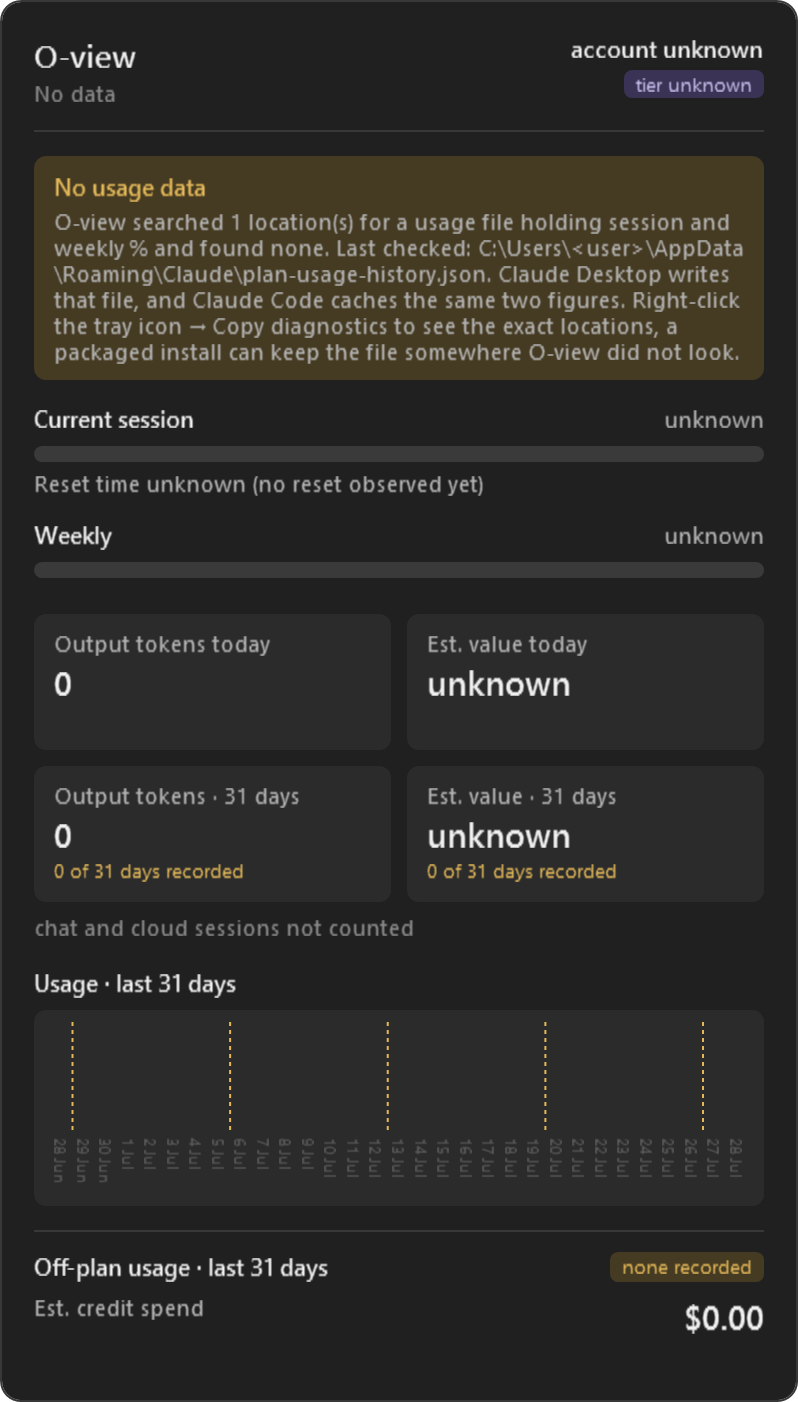
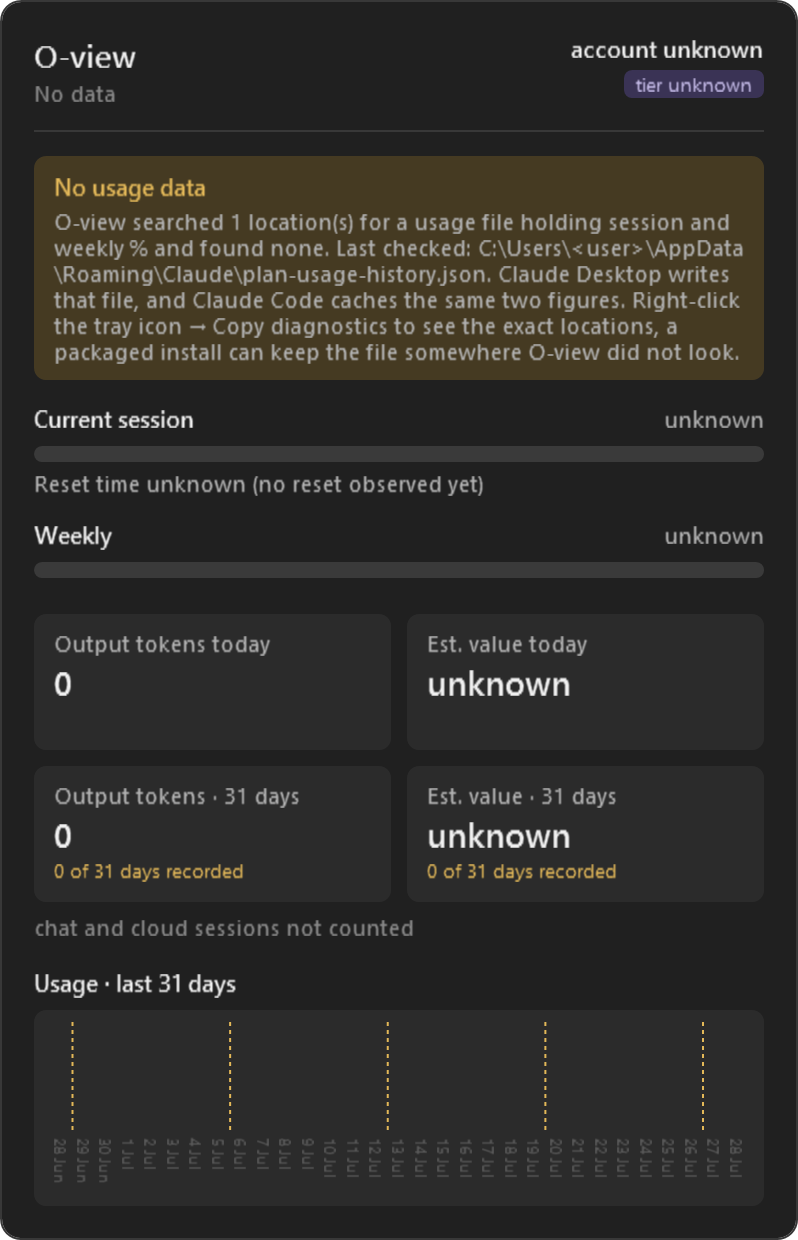
Bring the public docs up to v1.2.1 (OVIAA-252)
Add the Weekly · Fable panel to the README gallery and the overview, retake the
no-data screenshot from the current render, describe the Windows motion and the
Linux head's lack of it, state the model limit bar and the v1.2.1 checks in
platform-status, and correct cli.md on which flags run beside a live instance.

diff --git a/docs/overview.md b/docs/overview.md
@@ -1,6 +1,6 @@
 # O-view at a glance
 
-What the app looks like, surface by surface, on both platforms and in both themes. Every image on this page is rendered by the app itself from its shared sample states, the same renders the test suite compares pixel by pixel on every change, so the pictures are the shipped panel rather than a mock-up. The sample data is fictional: a plan at 25% of its session window, 3% of its weekly one, and a month of transcripts.
+What the app looks like, surface by surface, on both platforms and in both themes. Every image on this page is rendered by the app itself from its shared sample states, so the pictures are the shipped surfaces rather than a mock-up. The panel images are the renders the test suite compares pixel by pixel on every change. The sample data is fictional: a plan at 25% of its session window, 3% of its weekly one, and a month of transcripts.
 
 Four surfaces cannot be rendered offscreen and are described in words at the end: the icon sitting in a real taskbar, the flyout docked against it, a balloon notification, and the installer.
 
@@ -13,7 +13,7 @@ A ring gauge filled in proportion to the 5-hour session window, with the brand "
 | ![](images/icon-00-dark.png) | ![](images/icon-47-dark.png) | ![](images/icon-72-dark.png) | ![](images/icon-91-dark.png) | ![](images/icon-estimate-dark.png) | ![](images/icon-none-dark.png) |
 | ![](images/icon-00-light.png) | ![](images/icon-47-light.png) | ![](images/icon-72-light.png) | ![](images/icon-91-light.png) | ![](images/icon-estimate-light.png) | ![](images/icon-none-light.png) |
 
-The top row is drawn for a dark taskbar, the bottom row for a light one, where the shades are darker so they still read. The exact percentages live in the tooltip: `5h: 47% · resets 16:32 · 7d: 61%`.
+The top row is drawn for a dark taskbar, the bottom row for a light one, where the shades are darker so they still read. The exact percentages live in the tooltip: `5h: 47% · resets 16:32 · 7d: 61%`. The estimate-only and no-data icons are drawn identically, as the grey ring; the tooltip tells them apart (`local estimate` or `no usage data`).
 
 ## The detail panel
 
@@ -30,6 +30,18 @@ The Linux panel is built from the same sections and the same wording.
 | Linux, dark | Linux, light |
 |---|---|
 | ![](images/panel-typical-linux-dark.png) | ![](images/panel-typical-linux-light.png) |
+
+### An account with a model limit
+
+An account with a weekly limit on one model, such as Fable on Max, gets that limit as its own bar under Weekly, named for the model, with its own percentage and reset time in the same colours as the other bars. These renders use a sample account with a Fable limit at 58%, on both platforms. An account with no such limit sees no bar and no gap where one would be.
+
+| Windows, dark | Windows, light |
+|---|---|
+| ![](images/panel-model-limit-windows-dark.png) | ![](images/panel-model-limit-windows-light.png) |
+
+| Linux, dark | Linux, light |
+|---|---|
+| ![](images/panel-model-limit-linux-dark.png) | ![](images/panel-model-limit-linux-light.png) |
 
 ### Tiles that flip
 
@@ -77,12 +89,25 @@ O-view asks its questions on its own window rather than a system box: the same m
 |---|---|
 | ![](images/dialog-update-dark.png) | ![](images/dialog-weekly-reset-light.png) |
 
+## Motion
+
+Still images cannot show it, so it is described here. On Windows the panel and the menu move; on Linux nothing does.
+
+- **The panel and the menu slide.** They slide out of the taskbar edge they are docked to as one piece, in 460 ms, and back in 300 ms. A click while one is moving turns it round from where it had got to.
+- **Folds.** The Bars / Breakdown switch's highlight slides between its two labels, and the breakdown table folds open in 400 ms with its rows fading in one after another, closing in 280 ms. The menu's threshold list folds open and closed the same way, in 340 ms and 240 ms.
+- **Choosing a threshold shows it first.** The pill updates at once, the chosen dot grows in, and the list folds away about 300 ms later.
+- **Ticks and highlights.** A tick draws itself on and fades off, and the hover and focus fill on menu rows and option rows fades in and out.
+- **Stat tiles.** The total lifts out, the breakdown rises in behind it, the bar draws from left to right and the legend follows one entry at a time. The tile never changes size.
+- **Animations off.** Everything above follows Windows' setting for animation effects, read each time a transition starts. With it off, the panel and the menu appear and disappear at once, and folds and flips happen in one step.
+
+Once the motion has settled the surfaces look as the images above show them. The Linux head has none of this: its panel appears and disappears at once, its tiles and breakdown switch change in one step, and its menu belongs to the desktop. [platform-status.md](platform-status.md) records which of this has been watched on a real desktop.
+
 ## What cannot be rendered
 
 These four need a real desktop and are described rather than shown.
 
 - **The icon in the taskbar.** On Windows 11 a new tray icon lands in the overflow flyout behind the `^` chevron; drag it onto the taskbar to pin it. On Linux it appears wherever the desktop's notification area draws it, and on GNOME only once the AppIndicator extension is installed.
-- **The flyout against the taskbar.** The panel and the menu slide out of the taskbar edge as one piece on Windows, 460 ms in and 300 ms out, on curves fitted to the motion of Windows' own quick-settings flyout, and dock 12 px clear of it in the corner nearest the icon.
+- **The flyout against the taskbar.** The panel and the menu slide out of the taskbar edge as one piece on Windows (see Motion above), on curves fitted to the motion of Windows' own quick-settings flyout, and dock 12 px clear of it in the corner nearest the icon.
 - **A notification.** A balloon tip on Windows and a desktop notification on Linux, drawn by the system with O-view's title and body, once per session window when usage crosses your threshold, and once per onset when work stops drawing from the plan.
 - **The installer.** A per-user Inno Setup wizard with a terracotta panel carrying the mark and wordmark on its welcome and finish pages, an optional start-at-sign-in task, and a Start Menu entry.
 

diff --git a/README.md b/README.md
@@ -7,6 +7,7 @@ A system tray app for Windows 11 and Linux that shows how much of your Claude us
 | | |
 |---|---|
 | ![The detail panel on Windows, dark theme](docs/images/panel-typical-windows-dark.png) | ![The detail panel on Windows, light theme](docs/images/panel-typical-windows-light.png) |
+| ![The detail panel on Windows with a Weekly · Fable bar, dark theme](docs/images/panel-model-limit-windows-dark.png) | ![The detail panel on Linux with a Weekly · Fable bar, dark theme](docs/images/panel-model-limit-linux-dark.png) |
 | ![The tray menu](docs/images/menu-windows-dark.png) | ![A stat tile flipped to its per-model breakdown](docs/images/tiles-breakdown-dark.png) |
 
 Every surface, on both platforms and in both themes: [docs/overview.md](docs/overview.md).
@@ -35,6 +36,18 @@ Both heads follow the desktop's light or dark theme, re-read every time the pane
 - **Off-plan usage.** A section that appears only when there is off-plan usage to show. Without a model limit it is the estimated API-rate value of usage on models that bill as extra usage rather than drawing from the plan, over the chart's window. On an account with a model limit that usage draws from the limit, so the section shows instead what Claude reports as spent past the plan, labelled as reported, with no period because none is stated, and hidden while it is zero (unless extra usage is on and no amount can be read, when it says unknown). The two figures are never added. There is also a banner when the live detector sees substantial work against a flat plan meter or an exhausted window. The banner says whether your account has extra usage switched on, as Claude Code last reported it, rather than asserting a charge.
 - **No usage data.** When the figures are unknown, the panel states what O-view checked and what it found, never something about your machine it has not verified.
 
+### Motion
+
+On Windows the panel and the menu move; on Linux nothing does.
+
+- **Opening and closing.** The panel and the menu slide out of the taskbar edge they are docked to as one piece, in 460 ms, and slide back in 300 ms. A click while one is moving turns it round from where it had got to rather than jumping to an end.
+- **Folds.** The Bars / Breakdown switch's highlight slides, and the breakdown table folds open with its rows fading in one after another. The menu's threshold list folds the same way, and choosing a threshold shows the choice first and folds the list away a moment later.
+- **Ticks and highlights.** A tick in the menu draws itself on and fades off, and the hover and focus fill on rows fades in and out.
+- **Stat tiles.** Clicking a tile crossfades its total into its breakdown, with the bar drawing from left to right and the legend following one entry at a time. The tile never changes size.
+- **Animations off.** All of it follows Windows' setting for animation effects, read each time a transition starts. With it off, the panel and the menu appear and disappear at once, and folds and flips happen in one step.
+
+At rest the panel looks exactly as it would without motion. The Linux head has no motion: its panel appears and disappears at once, its tiles and breakdown switch change in one step, and its menu is drawn by the desktop's notification-area host. What has and has not been watched on a real desktop is in [docs/platform-status.md](docs/platform-status.md).
+
 Figures labelled **Est.** price tokens at published API rates. They are not money charged; within plan limits the marginal cost is zero. Where a model has no published rate, O-view sums what it can price and names what it left out.
 
 ### Why these totals are lower than Claude Code's own
@@ -59,9 +72,11 @@ Supported does not mean identical. The table below says what each platform does;
 | | Windows 11 | Linux |
 |---|---|---|
 | Reading Claude's data | Yes | Yes |
-| Tray icon | Yes | Yes, where the desktop has a notification-area host. GNOME ships none by default; see below |
+| Tray icon | Yes | Yes, where the desktop has a notification-area host. GNOME ships none by default; see below. It is put on the desktop once its first reading is drawn, waiting at most 5 seconds, then shown even if that reading is not ready; not yet watched on a real GNOME desktop |
 | Tooltip | Yes | Not on GNOME. The exact figures are in the panel instead |
 | Detail panel | Docked flyout at the taskbar corner | A window in the work area's corner, not docked to the icon |
+| A model's own limit bar | Yes | Yes |
+| Motion | Panel and menu slide, folds and flips animate, following Windows' animation setting | None |
 | Right-click menu | All rows | Show usage, Reset panel position (X11 and XWayland only), Run at startup, Resume usage refresh when needed, Exit. Diagnostics and updates have command-line equivalents |
 | Notifications | Balloon tip | Freedesktop notifications |
 | Run at startup | Registry `Run` key, from the menu | XDG autostart file, from the menu or `o-view --startup-on` |

diff --git a/docs/platform-status.md b/docs/platform-status.md
@@ -1,6 +1,6 @@
 # Platform status
 
-What has actually been seen working, on which platform, and what has not. This page exists so that the README, CLAUDE.md and the build plan can point at one record instead of each retelling it. Update it when a report lands; nothing else in the repository should restate it.
+As of v1.2.1. What has actually been seen working, on which platform, and what has not. This page exists so that the README, CLAUDE.md and the build plan can point at one record instead of each retelling it. Update it when a report lands; nothing else in the repository should restate it.
 
 The distinction it keeps is between three claims that sound alike:
 
@@ -12,11 +12,29 @@ Shipping something is not the same as having seen it work, and the app's own rul
 
 ## Windows 11
 
-In daily use on the developer's machine since v0.1.0, and the platform every release has been exercised on by hand. Every surface in the README's platform table is seen working.
+In daily use on the developer's machine since v0.1.0, and the platform every release has been exercised on by hand. Every surface in the README's platform table has been seen working except what the two subsections below list as not seen.
+
+### The model limit bar
+
+`Weekly · Fable` was checked on one real account: a Max account with a Fable limit, compared with Claude's own usage page. It is drawn on both heads, and on the Linux head it has been seen only in the rendered images the test suite compares. How the Linux panel wraps a very long model name has no test. An amount reported as spent past the plan has only ever been seen as zero; any amount above zero, and any currency other than US dollars, rests on tests and the names of the fields Claude Code writes.
+
+### The v1.2.1 motion
+
+The panel and the menu sliding, the folds, the tick and the tile flip are Windows only; Linux has none. Maximilian signed the motion off on a test build on 2026-11-06 with no notes. No agent tried the following on that build, and whether he did is not recorded:
+
+- A real mouse pointer over the tiles, rows and menu. The agents used keyboard focus and raised clicks.
+- Windows' animation setting switched off for real. The agents forced it off in a temporary build.
+- Any display scale other than 100%, so whole-pixel movement at a fractional scale has not been seen.
+- A taskbar docked at the top.
+- A panel dragged away from the taskbar, which should slide out of its own window edge, wherever that is on screen.
+- A tile flip inside the real panel, or in the light theme. The probe drove one tile in a plain window, in the dark theme only.
+- A slow machine. The per-frame figures were taken on one PC.
+
+What repeats is three command-line checks, `--menu-check`, `--fold-check` and `--motion-check`, which a person runs on a desktop; CI does not run them. `--toggle-check` and `--popup-check` have not been run on this release, because they exit without a word while an installed O-view is open. Three small jumps were measured during review and left alone, and nobody looked for them on the test build: the panel's bottom edge lifting for one frame at the end of a closing fold, a menu dismissed while its threshold list is folding open growing past its docked edge, and a step of about 6 pixels at each end of the breakdown's fold.
 
 ## Linux
 
-Supported since v0.6.0 (ADR-0012). Two hardware reports and a series of virtual-machine runs are the whole of what has been seen.
+Supported since v0.6.0 (ADR-0012). Two hardware reports and a series of virtual-machine runs are the whole of what has been seen. No report has landed since v1.2.1, so nothing in that release's Linux change has been seen on a desktop.
 
 ### Hardware reports
 
@@ -55,6 +73,9 @@ A native Xorg GNOME session was run on 2026-10-15 against an earlier build and h
 - The panel on a physical Linux desktop. Every panel observation above is from the VM.
 - The tooltip. On GNOME it cannot appear at all (the README explains why); what KDE Plasma does with it is not known, and neither hardware report mentioned it.
 - Notifications.
+- The tray icon showing real usage the first time it is drawn (v1.2.1). It waits up to 5 seconds for the first reading before it is put on the desktop, and shows the grey ring if none is ready. The fix is shown against a stand-in tray host and by CI's headless job, not on the GNOME desktop where a grey icon was reported, so whether the grey icon is gone there is not known. The cause is the best route found, not an observed one.
+- The model limit bar on a physical or virtual Linux desktop; it has been seen only in rendered images.
+- The theme switch and the single tray icon after the AppIndicator extension is toggled (v1.2.0), which are proven by tests and by CI's headless job.
 - GNOME without an AppIndicator extension, other than in containers.
 - The `.deb` package on hardware; both reports were tarball installs.
 - An explicit prefer-dark theme setting.

diff --git a/docs/cli.md b/docs/cli.md
@@ -11,7 +11,7 @@ The Windows executable is `O-view.Tray.exe`; the Linux one is `o-view`.
 | `--diagnose [path]` | Writes the support bundle: platform, resolved data roots, which locations were searched, transcript counts, the rollup store's state, the weekly-reset anchor, where the session window starts and which source placed it, what Claude Code's cache held for model limits (`limits[]`: rows seen and skipped, then each model's name, percentage and reset, or why there are none) and for `spend` (the amount, currency and `enabled`, or whether it was absent or unreadable), and the tail of the log. Contains no token and no conversation content. On Windows a path is required, because a windowed app has no console. On Linux it prints to stdout unless a path is given. Runs without disturbing a running instance. |
 | `--log <path>` | Where the running app writes its log, instead of the default file under O-view's data folder. |
 | `--interval-ms <n>` | The full poll interval for this run, 50 ms or more; the default is 60 seconds. For watching a change land quickly. |
-| `--startup-on`, `--startup-off` | Enable or disable run at startup and report the state as it stands after the write. On Windows this runs inside the live instance and logs the result; on Linux it runs before the single-instance guard, prints the state and the autostart file's path, and exits non-zero if the write did not take. |
+| `--startup-on`, `--startup-off` | Enable or disable run at startup and report the state as it stands after the write. On Windows this is an ordinary launch that writes the setting and logs the result, so the app carries on running afterwards, and it does nothing while another O-view is already running; on Linux it runs before the single-instance guard, prints the state and the autostart file's path, and exits non-zero if the write did not take. |
 | `--startup-status` | Linux only. Reports the autostart state without changing it. |
 | `--probe` | Linux only. Asks the session bus whether a notification-area host exists and names the desktop and session type. This is the answer to "why can't I see the icon". |
 
@@ -31,6 +31,8 @@ These run before the single-instance guard, need no display or bus, and exit whe
 ## Live checks, Windows
 
 These drive the real surfaces on the real desktop and write a report, because the regressions they exist for have all been stateful: they appear on the second open, not the first, or they differ between what the logic reports and what is drawn.
+
+`--menu-check`, `--motion-check` and `--fold-check` run before the single-instance guard and work beside a running O-view. Every other flag in this section starts the whole app, so while another O-view is running it exits without a word, apart from `--popup-check`, which writes a report saying `NOT RUN`.
 
 | Flag | What it does |
 |---|---|
